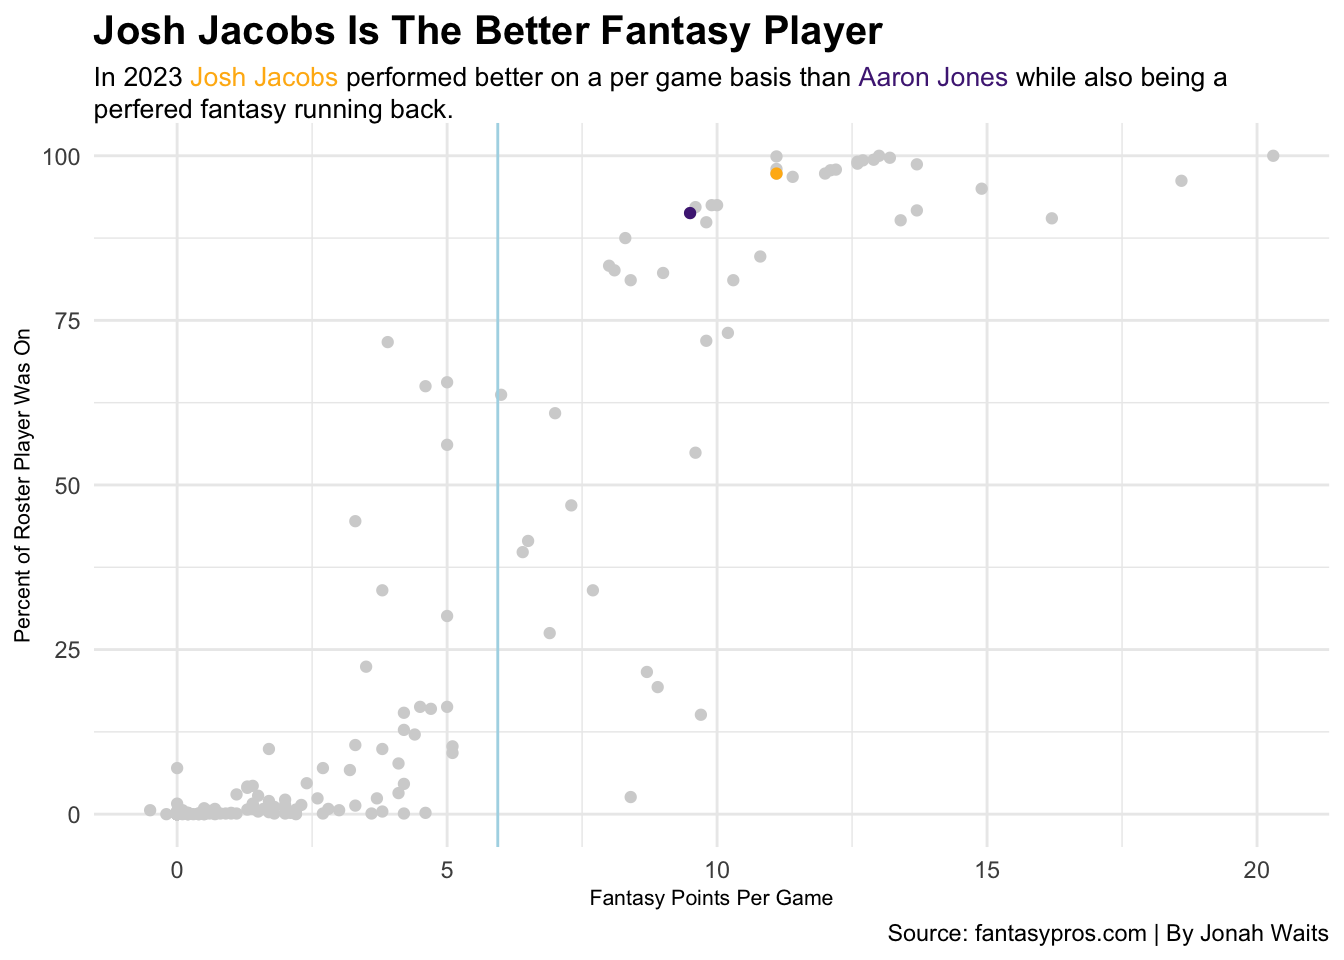
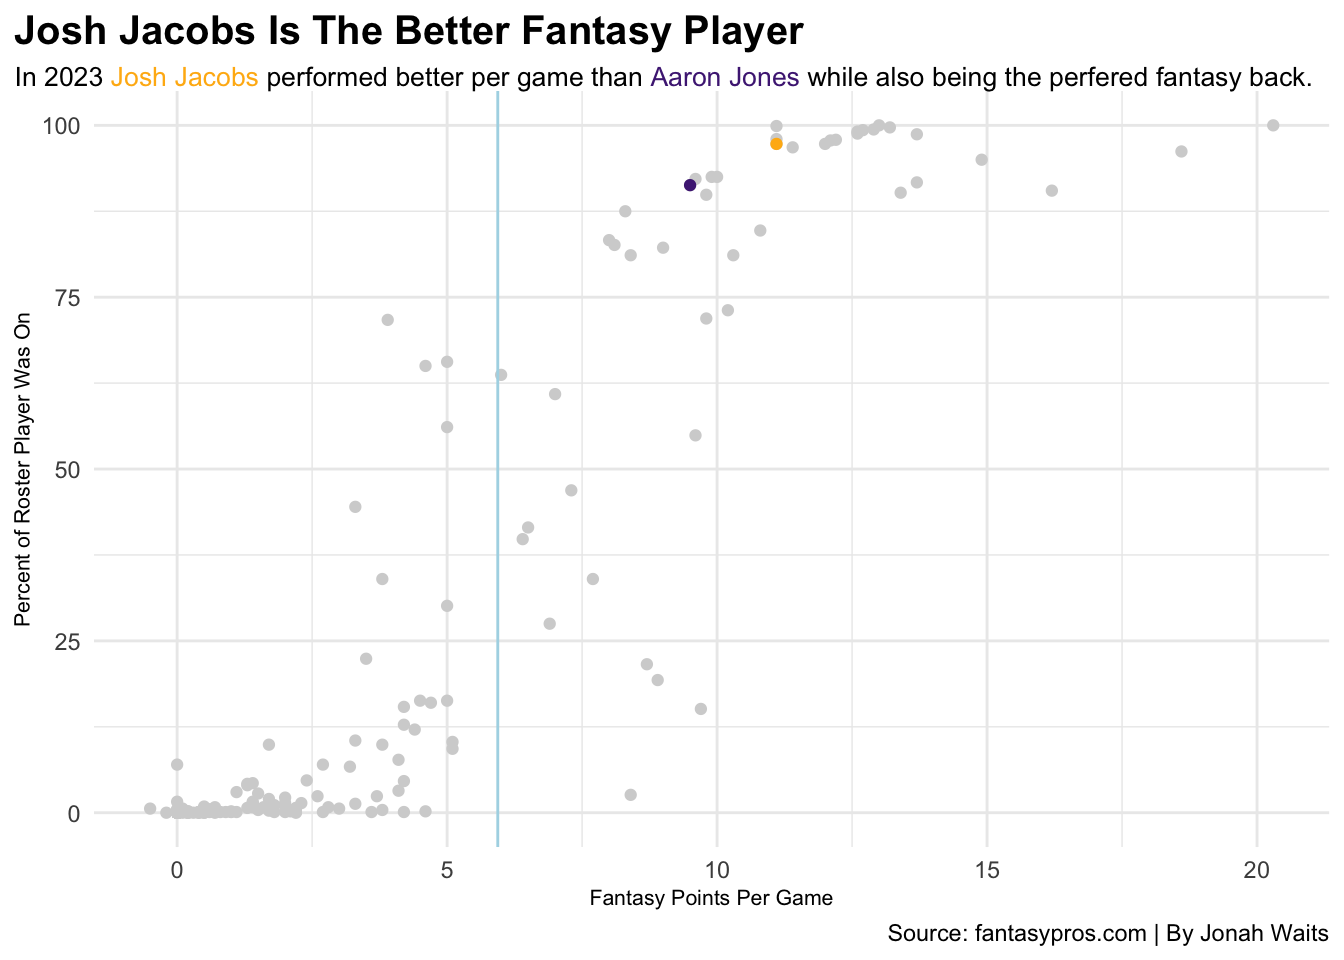
Graphic Update

diff --git a/index.html b/index.html
@@ -205,7 +205,7 @@ window.Quarto = {
 
 <div class="quarto-listing quarto-listing-container-default" id="listing-listing">
 <div class="list quarto-listing-default">
-<div class="quarto-post image-right" data-index="0" data-categories="football,Green Bay Packers,NFL" data-listing-date-sort="1714539600000" data-listing-file-modified-sort="1714588904281" data-listing-date-modified-sort="NaN" data-listing-reading-time-sort="2" data-listing-word-count-sort="377">
+<div class="quarto-post image-right" data-index="0" data-categories="football,Green Bay Packers,NFL" data-listing-date-sort="1714539600000" data-listing-file-modified-sort="1714589874694" data-listing-date-modified-sort="NaN" data-listing-reading-time-sort="2" data-listing-word-count-sort="373">
 <div class="thumbnail">
 <p><a href="./posts/packers-moved-away-from-aaron_jones-at-right-time/index.html" class="no-external"></a></p><a href="./posts/packers-moved-away-from-aaron_jones-at-right-time/index.html" class="no-external">
 <p><img src="./posts/packers-moved-away-from-aaron_jones-at-right-time/image1.png" class="thumbnail-image"></p>
@@ -243,7 +243,7 @@ NFL
 <span id="cb1-8"></span>
 <span id="cb1-9">rushing23 <span class="ot">&lt;-</span> <span class="fu">read_csv</span>(<span class="st">"runback23.csv"</span>)</span>
 <span id="cb1-10"></span>
-<span id="cb1-11">aj <span class="ot">&lt;-</span> rushi…<span class="sc"></span><span class="fu"></span><span class="sc"></span><span class="st"></span></span><span id="cb1-12"></span><span id="cb1-13"><span class="ot"></span><span class="sc"></span><span class="fu"></span><span class="sc"></span><span class="st"></span></span><span id="cb1-14"></span><span id="cb1-15"><span class="fu"></span><span class="sc"></span></span><span id="cb1-16"><span class="fu"></span><span class="at"></span><span class="fu"></span><span class="at"></span><span class="at"></span><span class="at"></span><span class="st"></span><span class="sc"></span></span><span id="cb1-17"><span class="fu"></span><span class="at"></span><span class="fu"></span><span class="at"></span><span class="at"></span><span class="at"></span><span class="st"></span><span class="sc"></span></span><span id="cb1-18"><span class="fu"></span><span class="at"></span><span class="fu"></span><span class="at"></span><span class="at"></span><span class="at"></span><span class="st"></span><span class="sc"></span></span><span id="cb1-19"><span class="fu"></span><span class="at"></span><span class="fl"></span><span class="at"></span><span class="st"></span><span class="sc"></span></span><span id="cb1-20"><span class="fu"></span><span class="sc"></span></span><span id="cb1-21"><span class="fu"></span></span><span id="cb1-22"><span class="at"></span><span class="st"></span></span><span id="cb1-23"><span class="at"></span><span class="st"></span></span><span id="cb1-24"><span class="at"></span><span class="st"></span></span><span id="cb1-25"><span class="at"></span><span class="st"></span></span><span id="cb1-26"><span class="at"></span><span class="st"></span></span><span id="cb1-27"><span class="sc"></span></span><span id="cb1-28"><span class="fu"></span></span><span id="cb1-29"><span class="at"></span><span class="fu"></span><span class="at"></span><span class="dv"></span></span><span id="cb1-30"><span class="at"></span><span class="fu"></span><span class="at"></span><span class="dv"></span><span class="at"></span><span class="st"></span></span><span id="cb1-31"><span class="at"></span><span class="fu"></span><span class="at"></span><span class="dv"></span></span><span id="cb1-32"><span class="at"></span></span><span id="cb1-33"></span></code></pre></div></details><div class="cell-output-display"><div><figure class="figure"><p></p></figure></div></div></a>
+<span id="cb1-11">aj <span class="ot">&lt;-</span> rushi…<span class="sc"></span><span class="fu"></span><span class="sc"></span><span class="st"></span></span><span id="cb1-12"></span><span id="cb1-13"><span class="ot"></span><span class="sc"></span><span class="fu"></span><span class="sc"></span><span class="st"></span></span><span id="cb1-14"></span><span id="cb1-15"><span class="fu"></span><span class="sc"></span></span><span id="cb1-16"><span class="fu"></span><span class="at"></span><span class="fu"></span><span class="at"></span><span class="at"></span><span class="at"></span><span class="st"></span><span class="sc"></span></span><span id="cb1-17"><span class="fu"></span><span class="at"></span><span class="fu"></span><span class="at"></span><span class="at"></span><span class="at"></span><span class="st"></span><span class="sc"></span></span><span id="cb1-18"><span class="fu"></span><span class="at"></span><span class="fu"></span><span class="at"></span><span class="at"></span><span class="at"></span><span class="st"></span><span class="sc"></span></span><span id="cb1-19"><span class="fu"></span><span class="at"></span><span class="fl"></span><span class="at"></span><span class="st"></span><span class="sc"></span></span><span id="cb1-20"><span class="fu"></span><span class="sc"></span></span><span id="cb1-21"><span class="fu"></span></span><span id="cb1-22"><span class="at"></span><span class="st"></span></span><span id="cb1-23"><span class="at"></span><span class="st"></span></span><span id="cb1-24"><span class="at"></span><span class="st"></span></span><span id="cb1-25"><span class="at"></span><span class="st"></span></span><span id="cb1-26"><span class="at"></span><span class="st"></span></span><span id="cb1-27"><span class="sc"></span></span><span id="cb1-28"><span class="fu"></span></span><span id="cb1-29"><span class="at"></span><span class="fu"></span><span class="at"></span><span class="dv"></span></span><span id="cb1-30"><span class="at"></span><span class="fu"></span><span class="at"></span><span class="dv"></span><span class="at"></span><span class="st"></span></span><span id="cb1-31"><span class="at"></span><span class="fu"></span><span class="at"></span><span class="dv"></span></span><span id="cb1-32"><span class="at"></span><span class="st"></span></span><span id="cb1-33"></span></code></pre></div></details><div class="cell-output-display"><div><figure class="figure"><p></p></figure></div></div></a>
 </div>
 </div>
 <div class="metadata">

diff --git a/posts/packers-moved-away-from-aaron_jones-at-right-time/index.html b/posts/packers-moved-away-from-aaron_jones-at-right-time/index.html
@@ -218,13 +218,13 @@ pre > code.sourceCode > span > a:first-child::before { text-decoration: underlin
 <span id="cb1-23"><a href="#cb1-23" aria-hidden="true" tabindex="-1"></a>    <span class="at">x =</span> <span class="st">"Fantasy Points Per Game"</span>,</span>
 <span id="cb1-24"><a href="#cb1-24" aria-hidden="true" tabindex="-1"></a>    <span class="at">y=</span> <span class="st">"Percent of Roster Player Was On"</span>, </span>
 <span id="cb1-25"><a href="#cb1-25" aria-hidden="true" tabindex="-1"></a>    <span class="at">caption=</span> <span class="st">"Source: fantasypros.com | By Jonah Waits"</span>,</span>
-<span id="cb1-26"><a href="#cb1-26" aria-hidden="true" tabindex="-1"></a>    <span class="at">subtitle =</span> <span class="st">"In 2023 &lt;span style = 'color:#FFB612;'&gt;Josh Jacobs&lt;/span&gt; performed better on a per game basis than &lt;span style = 'color:#4F2683;'&gt;Aaron Jones&lt;/span&gt; while also being a perfered fantasy running back."</span></span>
+<span id="cb1-26"><a href="#cb1-26" aria-hidden="true" tabindex="-1"></a>    <span class="at">subtitle =</span> <span class="st">"In 2023 &lt;span style = 'color:#FFB612;'&gt;Josh Jacobs&lt;/span&gt; performed better per game than &lt;span style = 'color:#4F2683;'&gt;Aaron Jones&lt;/span&gt; while also being the perfered fantasy back."</span></span>
 <span id="cb1-27"><a href="#cb1-27" aria-hidden="true" tabindex="-1"></a>  ) <span class="sc">+</span></span>
 <span id="cb1-28"><a href="#cb1-28" aria-hidden="true" tabindex="-1"></a>   <span class="fu">theme</span>(</span>
 <span id="cb1-29"><a href="#cb1-29" aria-hidden="true" tabindex="-1"></a>    <span class="at">plot.subtitle =</span> <span class="fu">element_textbox_simple</span>(<span class="at">size =</span> <span class="dv">10</span>),</span>
 <span id="cb1-30"><a href="#cb1-30" aria-hidden="true" tabindex="-1"></a>    <span class="at">plot.title =</span> <span class="fu">element_text</span>(<span class="at">size =</span> <span class="dv">15</span>, <span class="at">face =</span><span class="st">"bold"</span>),</span>
 <span id="cb1-31"><a href="#cb1-31" aria-hidden="true" tabindex="-1"></a>    <span class="at">axis.title =</span> <span class="fu">element_text</span>(<span class="at">size =</span> <span class="dv">8</span>),</span>
-<span id="cb1-32"><a href="#cb1-32" aria-hidden="true" tabindex="-1"></a>    <span class="at">plot.title.position =</span> </span>
+<span id="cb1-32"><a href="#cb1-32" aria-hidden="true" tabindex="-1"></a>    <span class="at">plot.title.position =</span> <span class="st">"plot"</span></span>
 <span id="cb1-33"><a href="#cb1-33" aria-hidden="true" tabindex="-1"></a>  )</span></code><button title="Copy to Clipboard" class="code-copy-button"><i class="bi"></i></button></pre></div>
 </details>
 <div class="cell-output-display">
@@ -258,7 +258,7 @@ pre > code.sourceCode > span > a:first-child::before { text-decoration: underlin
 <span id="cb2-18"><a href="#cb2-18" aria-hidden="true" tabindex="-1"></a>    <span class="at">plot.subtitle =</span> <span class="fu">element_textbox_simple</span>(<span class="at">size =</span> <span class="dv">10</span>),</span>
 <span id="cb2-19"><a href="#cb2-19" aria-hidden="true" tabindex="-1"></a>    <span class="at">plot.title =</span> <span class="fu">element_text</span>(<span class="at">size =</span> <span class="dv">15</span>, <span class="at">face =</span><span class="st">"bold"</span>),</span>
 <span id="cb2-20"><a href="#cb2-20" aria-hidden="true" tabindex="-1"></a>    <span class="at">axis.title =</span> <span class="fu">element_text</span>(<span class="at">size =</span> <span class="dv">8</span>), </span>
-<span id="cb2-21"><a href="#cb2-21" aria-hidden="true" tabindex="-1"></a>    <span class="at">plot.title.position =</span> </span>
+<span id="cb2-21"><a href="#cb2-21" aria-hidden="true" tabindex="-1"></a>    <span class="at">plot.title.position =</span> <span class="st">"plot"</span></span>
 <span id="cb2-22"><a href="#cb2-22" aria-hidden="true" tabindex="-1"></a>  ) <span class="sc">+</span></span>
 <span id="cb2-23"><a href="#cb2-23" aria-hidden="true" tabindex="-1"></a>  <span class="fu">scale_size</span>(<span class="at">name =</span> <span class="st">"Touchdowns"</span>)</span></code><button title="Copy to Clipboard" class="code-copy-button"><i class="bi"></i></button></pre></div>
 </details>
